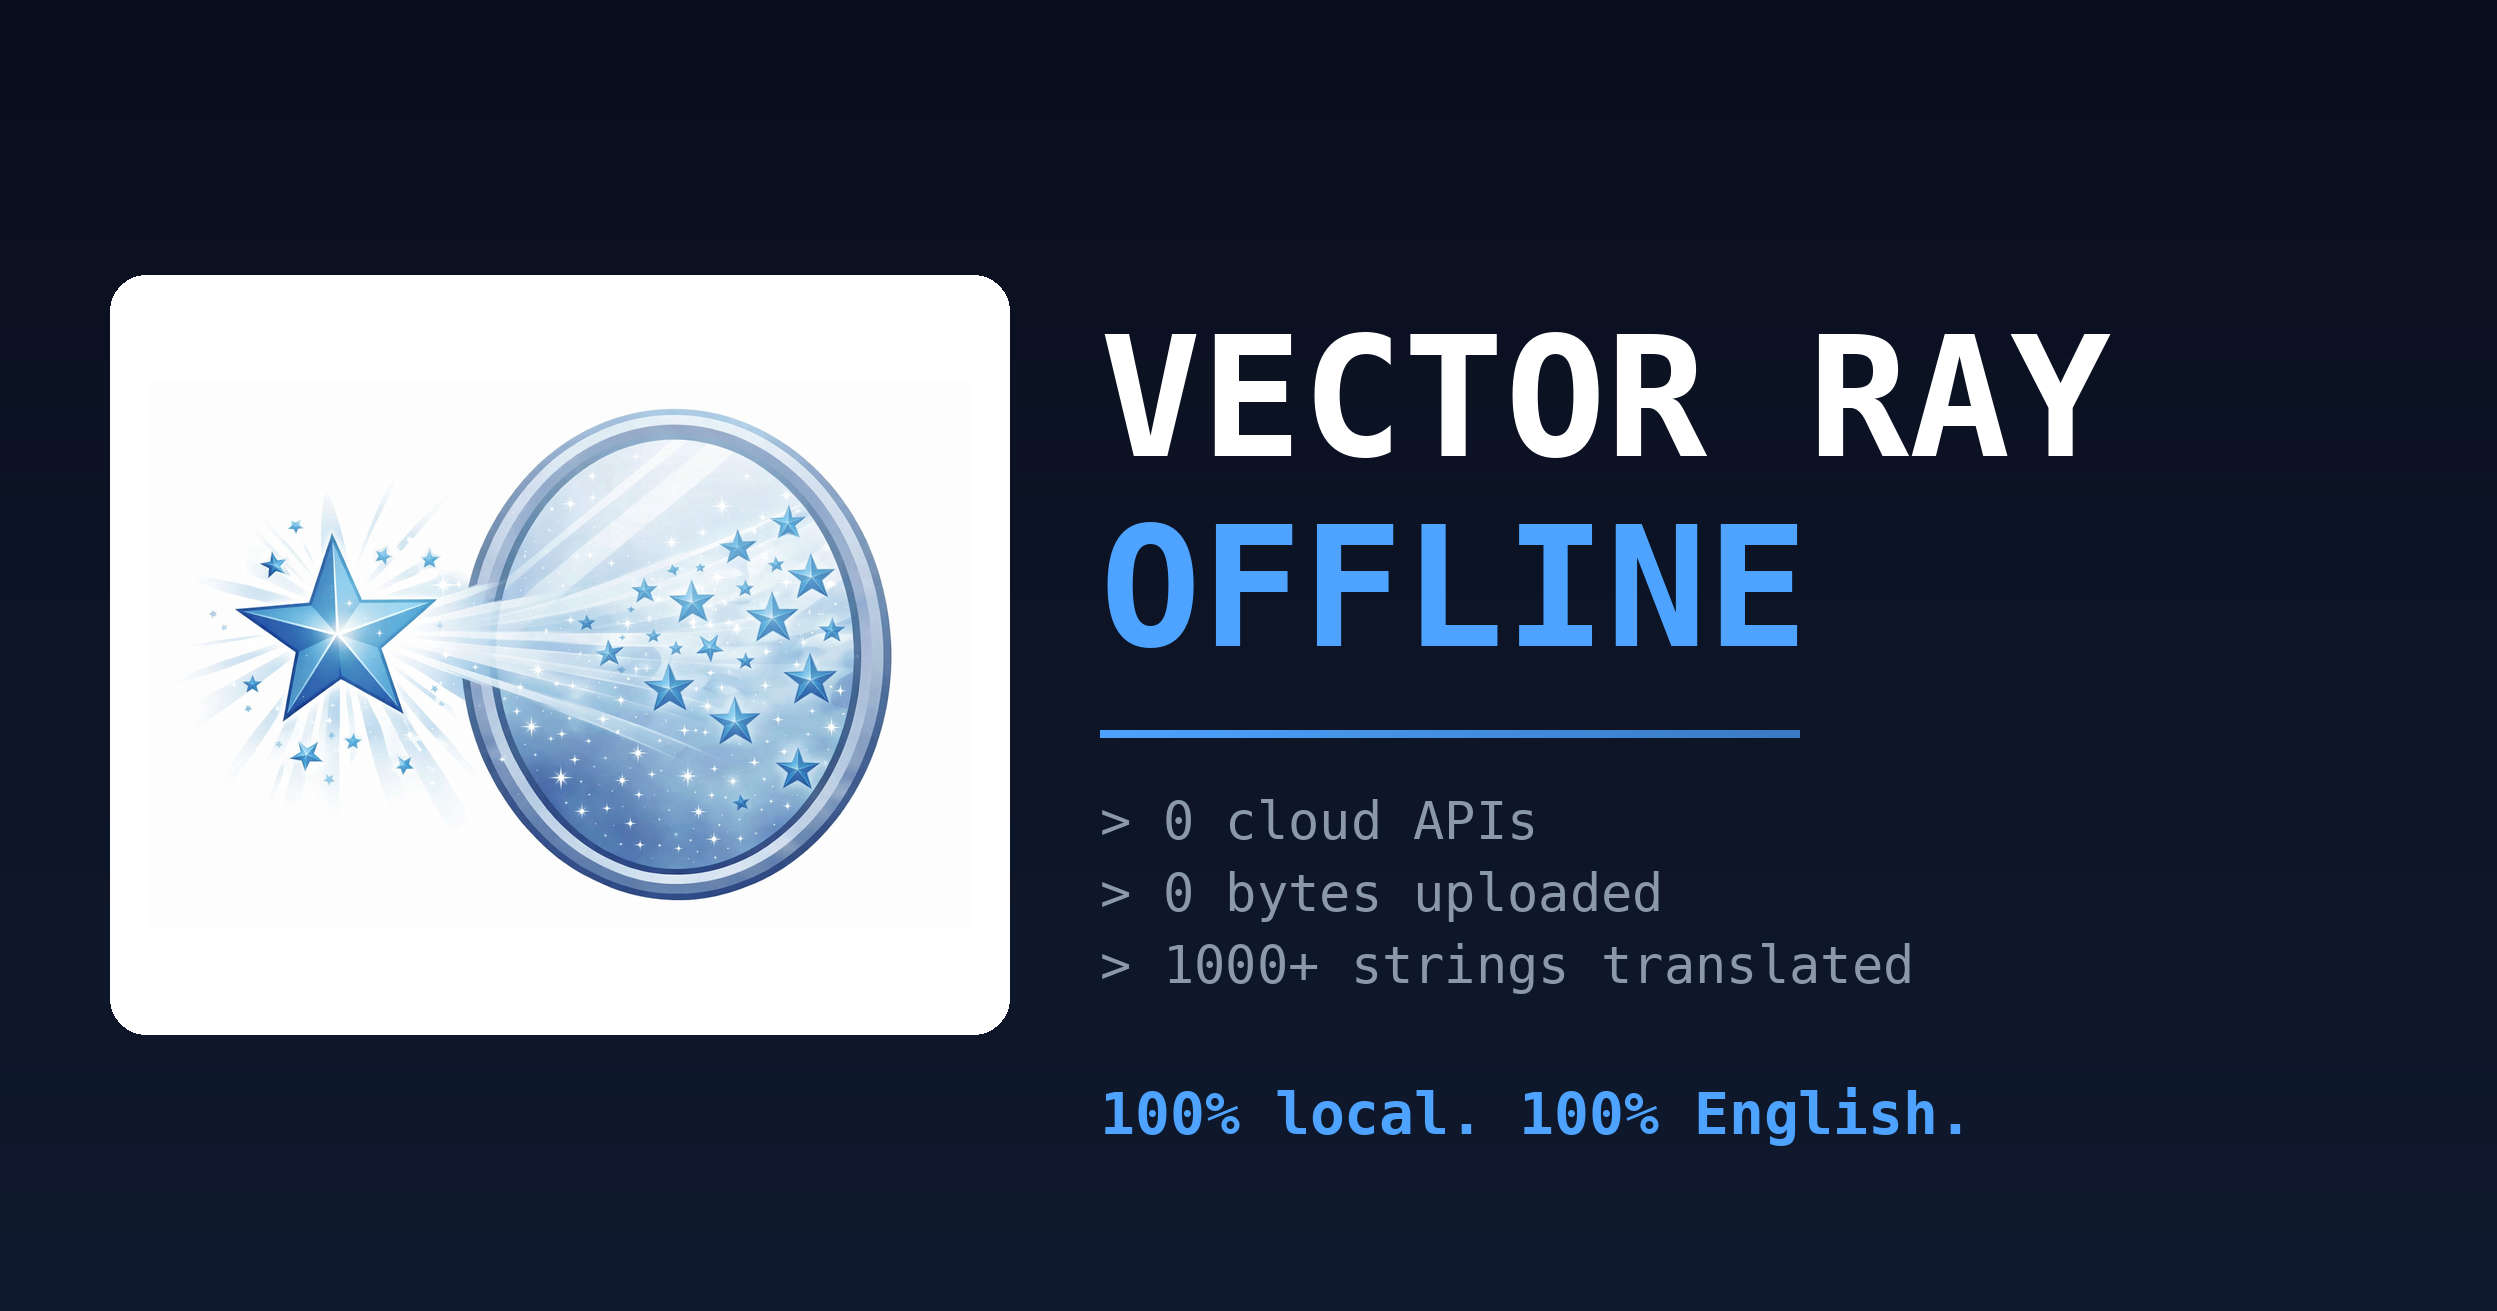
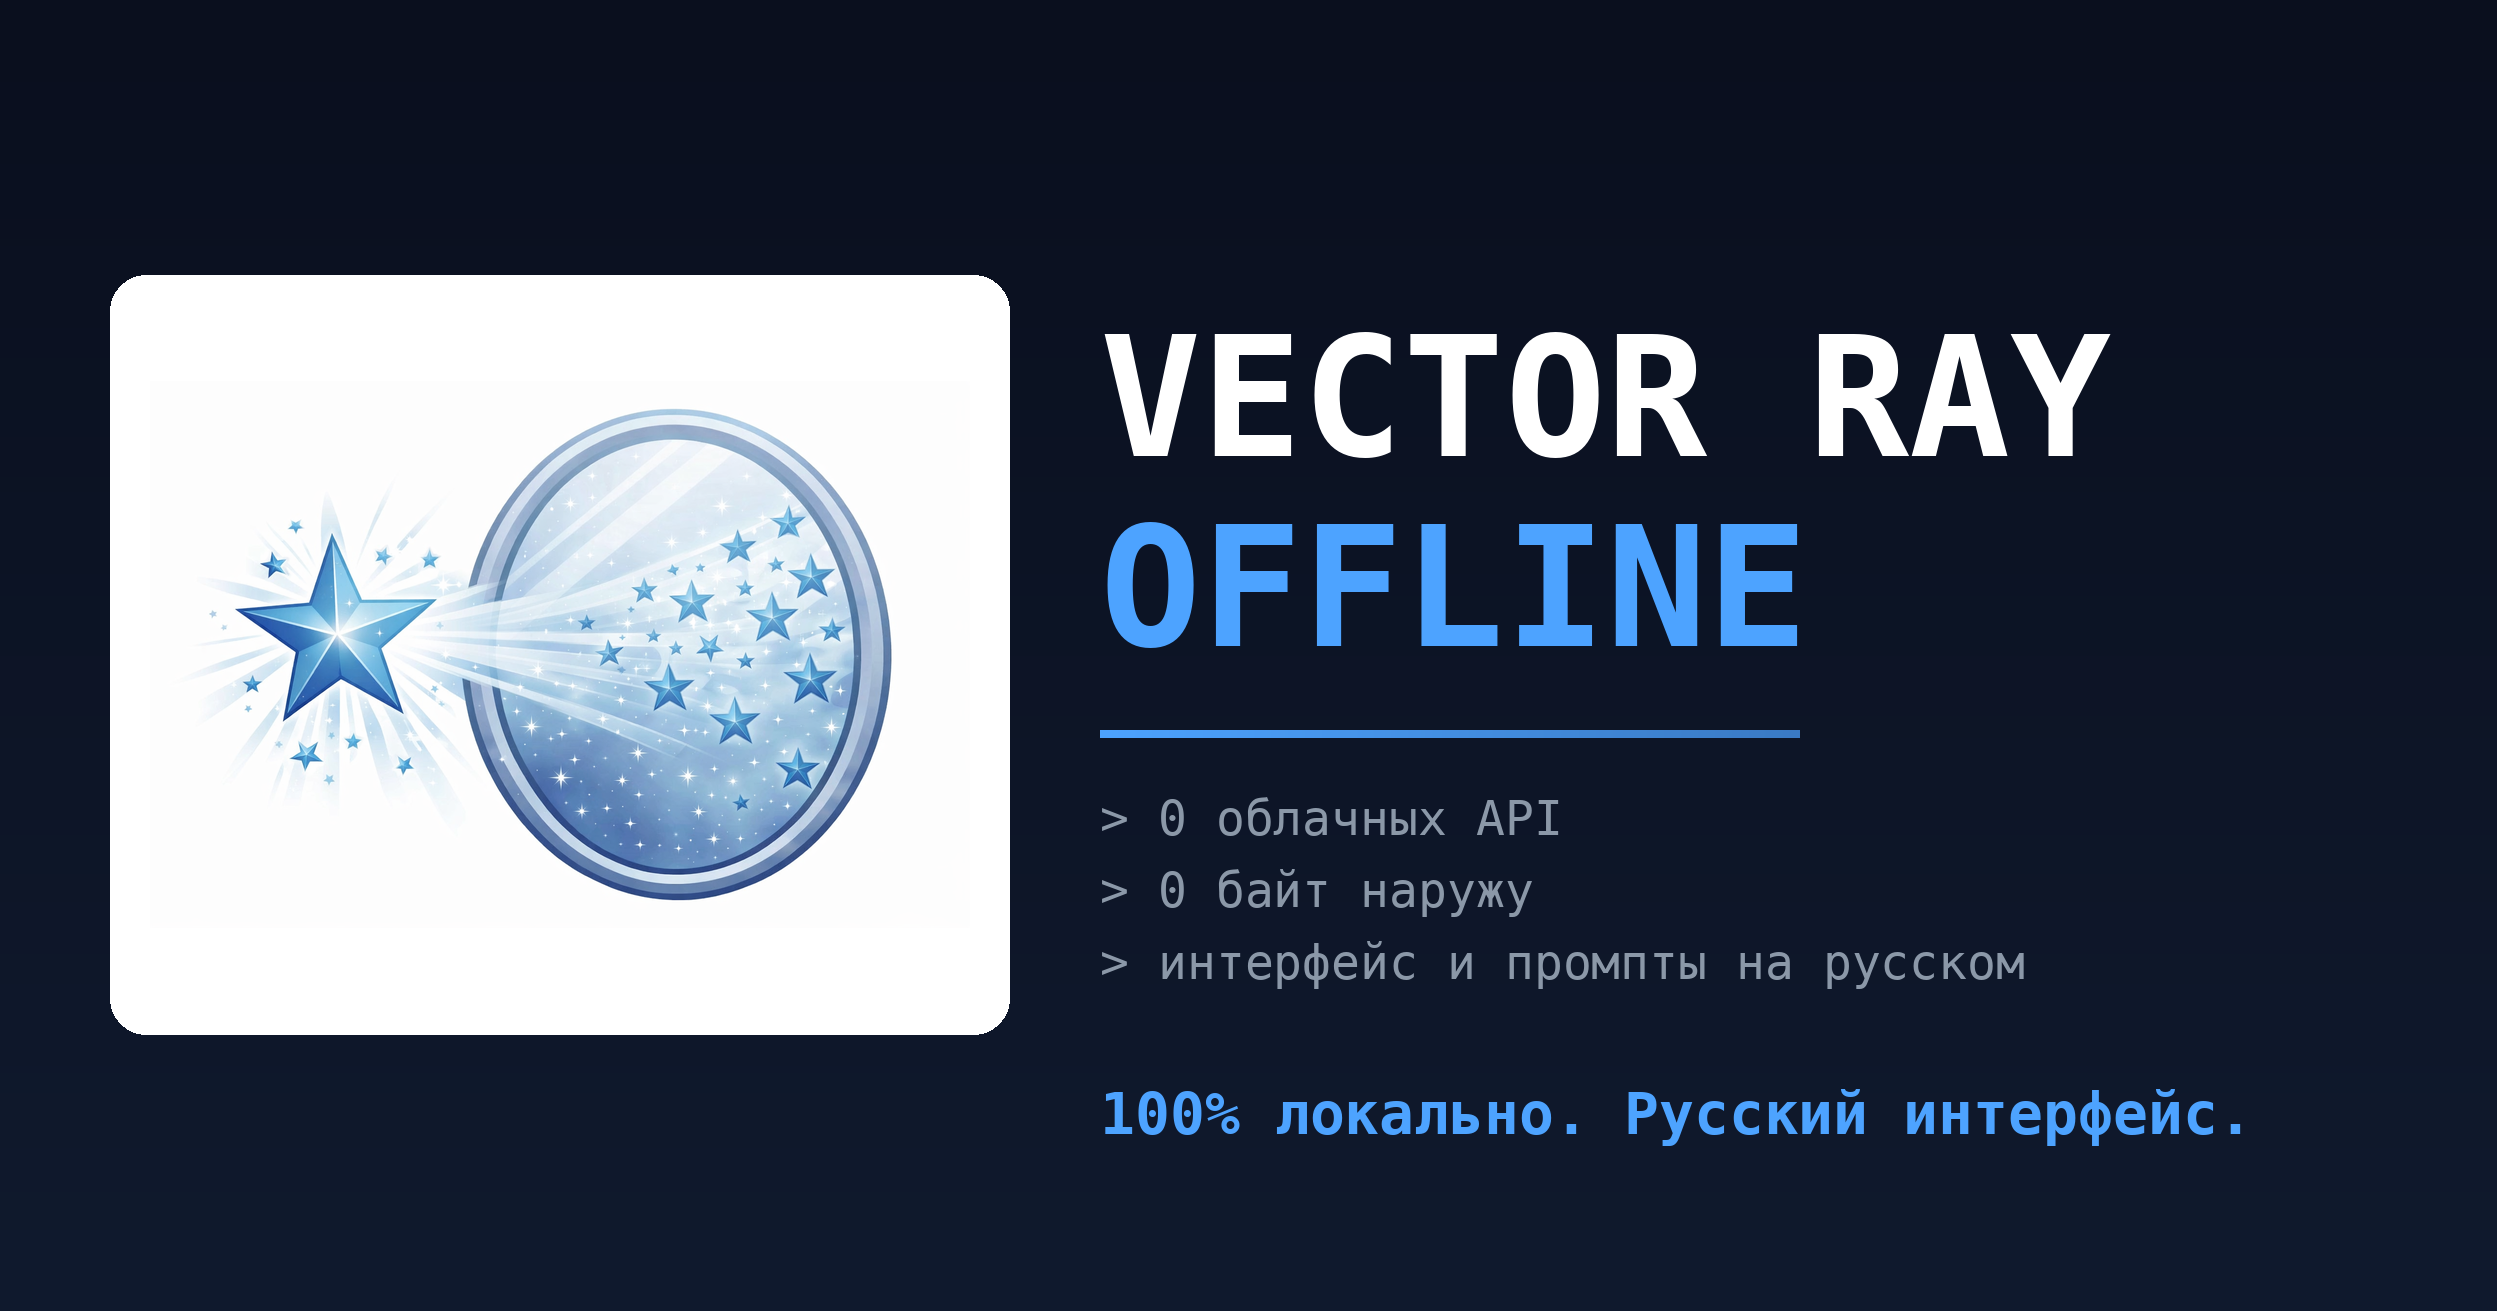
docs+ui: state Russian localization instead of the inherited English claim
README kept the upstream fork's selling point "English UI, 1,000+ strings
translated", which stopped being true: templates now carry 226 Russian labels
against 23 English (of those 6 were real text, the rest are API endpoints and
the product name) and the report agent writes Russian reports.

- README: Russian UI in the header, comparison table and changelog
- banner rebuilt with Russian claims: 0 cloud APIs, 0 bytes out, interface and
  prompts in Russian, slogan 100% local / Russian interface
- last six visible English labels translated (config inference block, timeline
  description, back and start buttons, log header, total events counter)
- vite build ok

diff --git a/frontend/src/components/Step2EnvSetup.vue b/frontend/src/components/Step2EnvSetup.vue
@@ -330,7 +330,7 @@
             <!-- LLM Configuration inference -->
             <div v-if="simulationConfig.generation_reasoning" class="config-block">
               <div class="config-block-header">
-                <span class="config-block-title">LLM Configuration inference</span>
+                <span class="config-block-title">Вывод LLM о конфигурации</span>
               </div>
               <div class="reasoning-content">
                 <div 
@@ -440,7 +440,7 @@
             <div class="rounds-header">
               <div class="header-left">
                 <span class="section-title">Настройка раундов симуляции</span>
-                <span class="section-desc">Vector Ray Automatically plan and infer reality <span class="desc-highlight">{{ simulationConfig?.time_config?.total_simulation_hours || '-' }}</span> hours，Each round represents reality <span class="desc-highlight">{{ simulationConfig?.time_config?.minutes_per_round || '-' }}</span> minutes time elapsed</span>
+                <span class="section-desc">Vector Ray сам планирует и выводит горизонт: <span class="desc-highlight">{{ simulationConfig?.time_config?.total_simulation_hours || '-' }}</span> ч, каждый раунд — <span class="desc-highlight">{{ simulationConfig?.time_config?.minutes_per_round || '-' }}</span> мин реального времени</span>
               </div>
               <label class="switch-control">
                 <input type="checkbox" v-model="useCustomRounds">
@@ -514,14 +514,14 @@
               class="action-btn secondary"
               @click="$emit('go-back')"
             >
-              ← Return graph construction
+              ← Вернуться к построению графа
             </button>
             <button 
               class="action-btn primary"
               :disabled="phase < 4"
               @click="handleStartSimulation"
             >
-              Start dual world parallel simulation ➝
+              Запустить параллельную симуляцию двух миров ➝
             </button>
           </div>
         </div>
@@ -618,7 +618,7 @@
     <!-- Bottom Info / Logs -->
     <div class="system-logs">
       <div class="log-header">
-        <span class="log-title">SYSTEM DASHBOARD</span>
+        <span class="log-title">СИСТЕМНЫЙ ЛОГ</span>
         <span class="log-id">{{ simulationId || 'NO_SIMULATION' }}</span>
       </div>
       <div class="log-content" ref="logContent">

diff --git a/frontend/src/components/Step3Simulation.vue b/frontend/src/components/Step3Simulation.vue
@@ -108,7 +108,7 @@
       <!-- Timeline Header -->
       <div class="timeline-header" v-if="allActions.length > 0">
         <div class="timeline-stats">
-          <span class="total-count">TOTAL EVENTS: <span class="mono">{{ allActions.length }}</span></span>
+          <span class="total-count">ВСЕГО СОБЫТИЙ: <span class="mono">{{ allActions.length }}</span></span>
           <span class="platform-breakdown">
             <span class="breakdown-item twitter">
               <svg class="mini-icon" viewBox="0 0 24 24" width="12" height="12" fill="none" stroke="currentColor" stroke-width="2"><circle cx="12" cy="12" r="10"></circle><line x1="2" y1="12" x2="22" y2="12"></line><path d="M12 2a15.3 15.3 0 0 1 4 10 15.3 15.3 0 0 1-4 10 15.3 15.3 0 0 1-4-10 15.3 15.3 0 0 1 4-10z"></path></svg>

diff --git a/README.md b/README.md
@@ -4,7 +4,7 @@
 
 # Vector Ray-Offline
 
-**Fully local fork of [MiroFish](https://github.com/666ghj/MiroFish) — no cloud APIs required. English UI.**
+**Fully local fork of [MiroFish](https://github.com/666ghj/MiroFish) — no cloud APIs required. Russian UI.**
 
 *A multi-agent swarm intelligence engine that simulates public opinion, market sentiment, and social dynamics. Entirely on your hardware.*
 
@@ -18,11 +18,11 @@
 
 Vector Ray is a multi-agent simulation engine: upload any document (press release, policy draft, financial report), and it generates hundreds of AI agents with unique personalities that simulate the public reaction on social media. Posts, arguments, opinion shifts — hour by hour.
 
-The [original MiroFish](https://github.com/666ghj/MiroFish) was built for the Chinese market (Chinese UI, Zep Cloud for knowledge graphs, DashScope API). This fork makes it **fully local and fully English**:
+The [original MiroFish](https://github.com/666ghj/MiroFish) was built for the Chinese market (Chinese UI, Zep Cloud for knowledge graphs, DashScope API). This fork makes it **fully local and Russian-localized**:
 
 | Original MiroFish | Vector Ray-Offline |
 |---|---|
-| Chinese UI | **English UI** (1,000+ strings translated) |
+| Chinese UI | **Russian UI** (interface and LLM prompts translated) |
 | Zep Cloud (graph memory) | **Neo4j Community Edition 5.15** |
 | DashScope / OpenAI API (LLM) | **Ollama** (qwen2.5, llama3, etc.) |
 | Zep Cloud embeddings | **nomic-embed-text** via Ollama |
@@ -193,6 +193,6 @@ This is a modified fork of [Vector Ray](https://github.com/666ghj/MiroFish) by [
 
 **Modifications in this fork:**
 - Backend migrated from Zep Cloud to local Neo4j CE 5.15 + Ollama
-- Entire frontend translated from Chinese to English (20 files, 1,000+ strings)
+- Frontend and LLM prompts translated from Chinese to Russian; report agent writes Russian reports
 - All Zep references replaced with Neo4j across the UI
 - Rebranded to Vector Ray Offline
